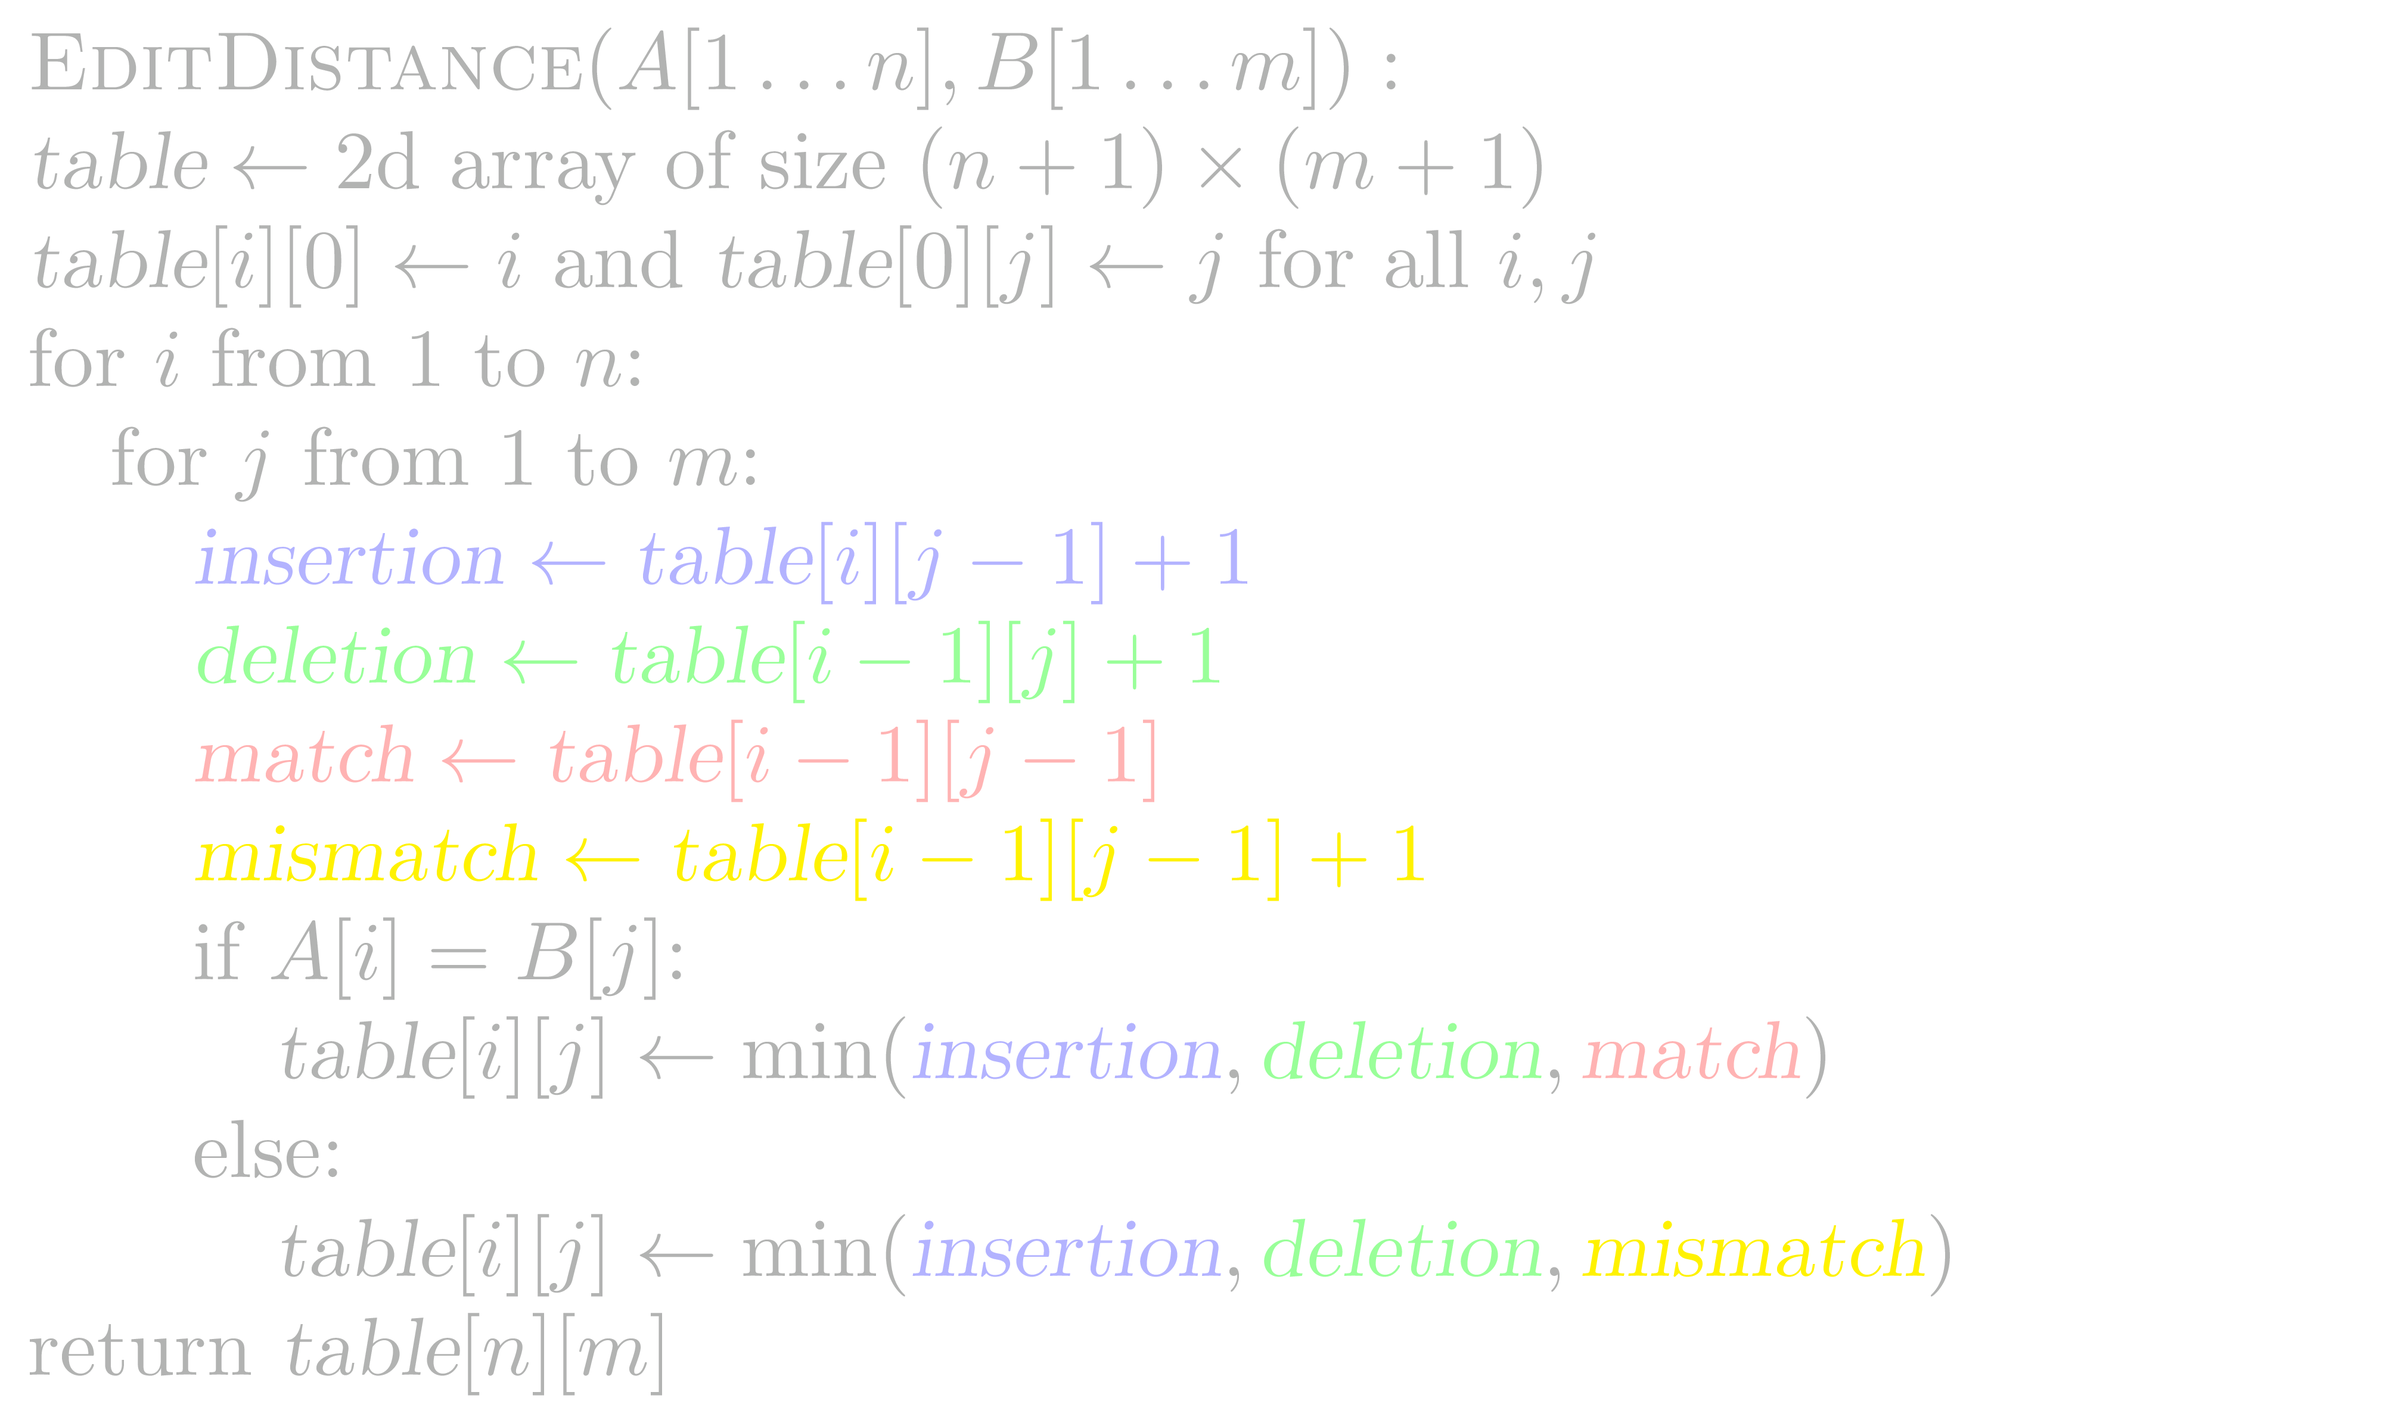
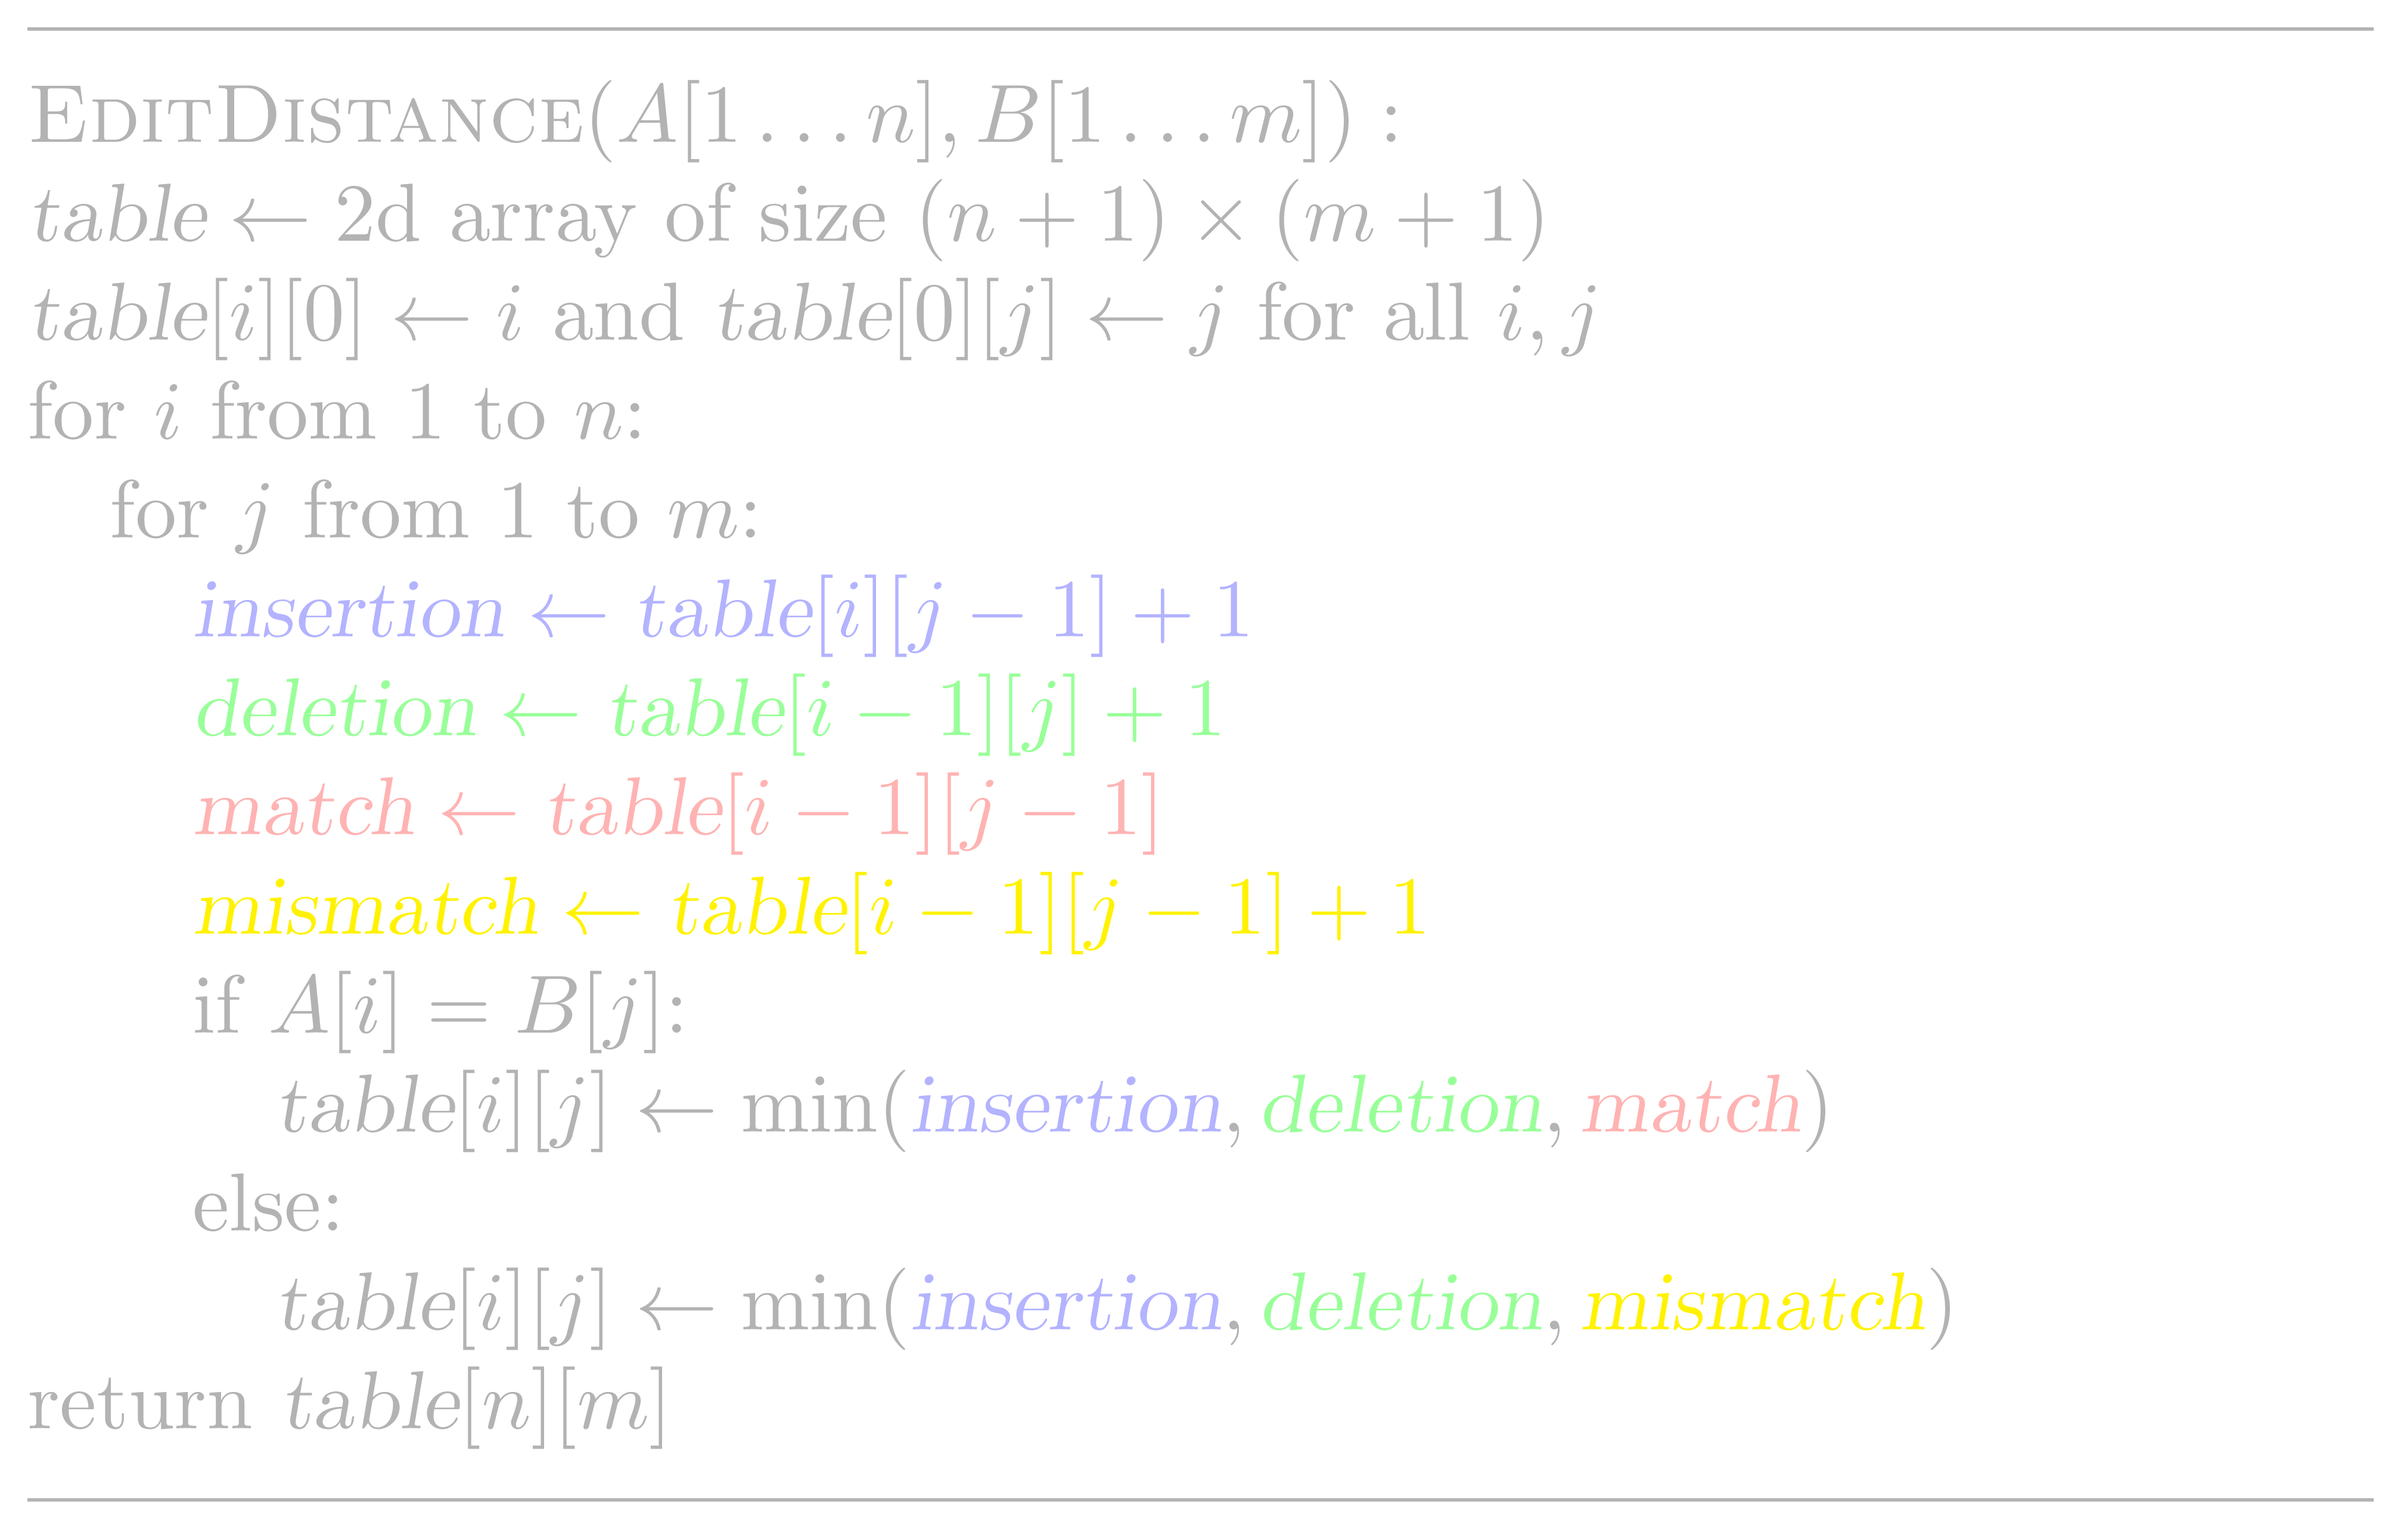
Cosmetics

diff --git a/images/edit_distance_5.tex b/images/edit_distance_5.tex
@@ -1,4 +1,6 @@
 \node[text width=100mm]{
+	\hrule
+	\medskip
 	$\myproc{EditDistance}(A[1 \dotsc n], B[1 \dotsc m]):$\\
 	$\myvar{table} \gets \text{2d array of size $(n + 1) \times (m + 1)$}$\\
 	$\myvar{table}[i][0] \gets i$ and $\myvar{table}[0][j] \gets j$ for all $i,j$\\
@@ -13,4 +15,6 @@
 	\quad\quad else:\\
 	\quad\quad\quad $\myvar{table}[i][j]\gets \min(\textcolor{two}{\myvar{insertion}}, \textcolor{one}{\myvar{deletion}}, \textcolor{four}{\myvar{mismatch}})$\\
 	return $\myvar{table}[n][m]$
+	\medskip
+	\hrule
 };
